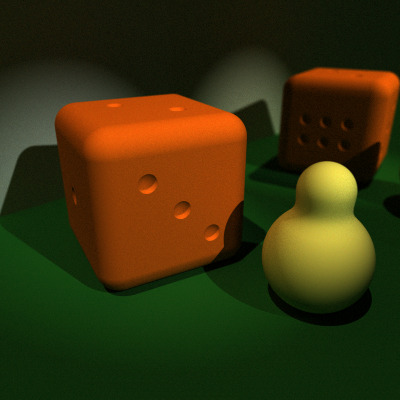
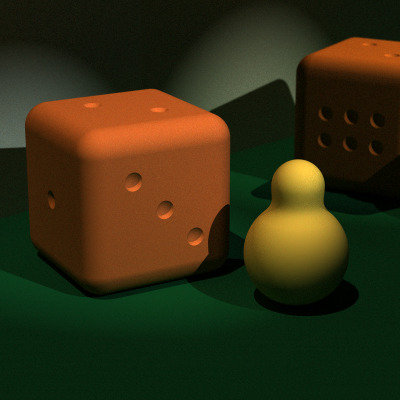
Update examples.

diff --git a/examples/spheres.hpp b/examples/spheres.hpp
@@ -36,6 +36,28 @@ Spectrum::sampled gold_k { {
   { 708.481, 3.6965 },
   { 826.561, 4.8406 } } };
 
+Spectrum::sampled silver_n { {
+  { 354.241, 1.4685 },
+  { 381.490, 1.2298 },
+  { 413.281, 0.6230 },
+  { 450.852, 0.1930 },
+  { 495.937, 0.1394 },
+  { 551.041, 0.1338 },
+  { 619.921, 0.1466 },
+  { 708.481, 0.1747 },
+  { 826.561, 0.2242 } } };
+
+Spectrum::sampled silver_k { {
+  { 354.241, 1.4048 },
+  { 381.490, 1.3234 },
+  { 413.281, 1.3282 },
+  { 450.852, 2.0570 },
+  { 495.937, 2.6785 },
+  { 551.041, 3.2689 },
+  { 619.921, 3.9130 },
+  { 708.481, 4.6754 },
+  { 826.561, 5.6373 } } };
+
 std::vector<Light::ptr> lights {
   new Light::spherical {
     new Spectrum::blackbody { 12.5, 5800 },
@@ -46,24 +68,26 @@ std::vector<Light::ptr> lights {
 
 std::vector<object> objects {
   { new Solid::plane { { 0., 1., 0. }, 1. },
-    new Material::lambertian { new Spectrum::from_palette { 0.4, 5, 9 } },
+    new Material::lambertian { new Spectrum::xyY { 0.32, 0.53, 0.6 } },
     NULL },
   { new Solid::sphere { { 0.2, 0., -1.2 }, 1. },
     new Material::reflective { &gold_n, &gold_k },
     NULL },
   { new Solid::sphere { { 2.3, -0.1, -1. }, 0.9 },
     new Material::thin_refractive { 1.3,
-      new Material::lambertian { new Spectrum::from_palette { 0.9, 2, 15 } }, },
+      new Material::lambertian { new Spectrum::xyY { 0.15, 0.25, 0.9 } }, },
     NULL },
-  { new Solid::difference {
-      new Solid::sphere { { 1.1, 0., 0.7 }, 1. },
-      new Solid::union_ {
-        new Solid::sphere { { 0.9, 0.5, -0.2 }, 0.2 },
-        new Solid::sphere { { 1.3, 0.5, -0.2 }, 0.2 } } },
-    new Material::lambertian { new Spectrum::from_palette { 0.9, 8, 10 } },
+  { new Solid::sphere { { 1.1, 0., 0.7 }, 1. },
+    new Material::reflective { &silver_n, &silver_k },
     NULL },
   { new Solid::sphere { { 1.3, -0.5, -2. }, 0.5 },
     new Material::refractive { 1.2 },
+    NULL },
+  { new Solid::sphere { { 0.1, -0.5, -2.5 }, 0.5 },
+    new Material::lambertian { new Spectrum::xyY { 0.4, 0.5, 0.9 } },
+    NULL },
+  { new Solid::sphere { { 2.4, -0.5, -2.5 }, 0.5 },
+    new Material::lambertian { new Spectrum::xyY { 0.64, 0.33, 0.9 } },
     NULL },
 };
 
@@ -72,12 +96,10 @@ std::vector<object> objects {
 namespace Camera {
 
 camera const *camera = new simple {
-  vec { 1., 2., -5. },
-  mat {
-    1., 0., 0.,
-    0., cos(0.45), -sin(0.45),
-    0., sin(0.45), cos(0.45)
-  } };
+  vec { 0.8, 5.8, -13. },
+  vec { 1.2, 0., -1. },
+  1.
+};
 
 }
 #endif

diff --git a/examples/sdf.hpp b/examples/sdf.hpp
@@ -49,7 +49,7 @@ std::vector<Light::ptr> lights {
 
 std::vector<object> objects {
   { new Solid::plane { { 0., 1., 0. }, 1. },
-    new Material::lambertian { new Spectrum::from_palette { 0.4, 5, 9 } },
+    new Material::lambertian { new Spectrum::xyY { 0.25, 0.55, 0.4 } },
     NULL },
   { new Solid::plane { Vector::normalize ({ 1., 0., -1. }), 2.5 },
     new Material::lambertian { new Spectrum::uniform { 0.9 } },
@@ -61,7 +61,7 @@ std::vector<object> objects {
       new SDF::smooth_union { 0.25,
         new SDF::sphere { { 2., -0.4, -1.2 }, 0.6 },
         new SDF::sphere { { 2., 0.4, -1.2 }, 0.3 } } },
-    new Material::lambertian { new Spectrum::from_palette { 0.9, 7, 11 } },
+    new Material::lambertian { new Spectrum::xyY { 0.43, 0.48, 0.9 } },
     NULL },
   { new Solid::sdf {
       new SDF::difference {
@@ -80,7 +80,7 @@ std::vector<object> objects {
           new SDF::sphere { { -0.4, 0.2, 1.1 }, 0.15 },
           new SDF::sphere { { 0., 0.2, 1.1 }, 0.15 },
           new SDF::sphere { { 0.4, 0.2, 1.1 }, 0.15 }, } }, },
-    new Material::lambertian { new Spectrum::from_palette { 0.9, 10, 11 } },
+    new Material::lambertian { new Spectrum::xyY { 0.55, 0.4, 0.9 } },
     new Transform::iso { { 0., 0., 0. }, 1., { 0., 1., 0. }, -1.05 } },
 };
 
@@ -89,8 +89,9 @@ std::vector<object> objects {
 namespace Camera {
 
 camera const *camera = new simple_lens {
-  vec { 0.8, 2., -5. },
-  vec { 0.7, 0.1, -0.8 },
+  vec { 1., 4.5, -14. },
+  vec { 0.9, 0.1, -0.8 },
+  1.,
   0.05 };
 
 }

diff --git a/examples/bunny.hpp b/examples/bunny.hpp
@@ -14,17 +14,21 @@ bool const regularize = false;
 namespace Scene {
 
 std::vector<Light::ptr> lights {
+  /*
   new Light::multidirectional {
     new Spectrum::blackbody { 2.5, 5800 },
     Vector::normalize({ 1., 2., -1. }), 4.65e-3 },
+  */
+  new Light::environment { new Image::pfm("objs/envmap.pfm"), 0.8, 0.3 }
 };
 
 std::vector<object> objects {
   { new Solid::plane { { 0., 1., 0. }, 1. },
-    new Material::lambertian { new Spectrum::from_palette { 0.9, 7, 13 } },
+    new Material::lambertian { new Spectrum::xyY { 0.38, 0.42, 0.8 } },
     NULL },
   { new Solid::mesh { "objs/stanford-bunny.obj" },
-      new Material::lambertian { new Spectrum::uniform { 0.9 } },
+    new Material::thin_refractive { 1.3,
+      new Material::lambertian { new Spectrum::uniform { 0.9 } }, },
     new Transform::iso { { 1.5, -1. - 19. * 0.032987, -1.2 }, 19., { 0., 1., 0. }, 1. } },
 };
 
@@ -33,12 +37,10 @@ std::vector<object> objects {
 namespace Camera {
 
 camera const *camera = new simple {
-  vec { 0.9, 2., -5. },
-  mat {
-    1., 0., 0.,
-    0., cos(0.45), -sin(0.45),
-    0., sin(0.45), cos(0.45)
-  } };
+  vec { 0.9, 5.3, -10. },
+  vec { 0.9, 0.8, -2.5 },
+  1.
+};
 
 }
 #endif

diff --git a/examples/spot.hpp b/examples/spot.hpp
@@ -29,7 +29,7 @@ std::vector<Light::ptr> lights {
 
 std::vector<object> objects {
   { new Solid::plane { { 0., 1., 0. }, 1. },
-    new Material::lambertian { new Spectrum::from_palette { 0.4, 5, 9 } },
+    new Material::lambertian { new Spectrum::xyY { 0.25, 0.55, 0.4 } },
     NULL },
   { new Solid::mesh { "objs/spot.obj" },
       new Material::lambertian {
@@ -42,12 +42,10 @@ std::vector<object> objects {
 namespace Camera {
 
 camera const *camera = new simple {
-  vec { 0., 2., -5. },
-  mat {
-    1., 0., 0.,
-    0., cos(0.4), -sin(0.4),
-    0., sin(0.4), cos(0.4)
-  } };
+  vec { 0., 1.8, -11. },
+  vec { 0., 0.4, 0. },
+  1.
+};
 
 }
 #endif

diff --git a/README.md b/README.md
@@ -16,13 +16,13 @@ from mathematics to implementation details.
 In particular, without this book, I would never have fully understood
 the following points:
 
-- Handling specular rays does not have to be a hack. They neatly fit
-  into a Monte-Carlo framework, despite their Dirac distributions, as
-  long as importance sampling is used.
-
 - Sampling both the material bsdf and the light sources along a path
   is a mathematically-grounded way to perform illumination, thanks to
   multiple importance sampling.
+
+- Handling specular rays does not have to be a hack. They neatly fit
+  into a Monte-Carlo framework, despite their Dirac distributions, as
+  long as importance sampling is used.
 
 - Sampling the whole visible spectrum rather than just three color
   channels does not make things much harder or slower. Moreover, it
@@ -37,27 +37,32 @@ was [Inigo Quilez's
 website](https://iquilezles.org/articles/distfunctions/), which is a
 treasure trove of ideas.
 
-Note: A slightly modern C++ compiler is needed, as the code relies on
-several C++20 features.
-
-To generate a `foo.ppm` file from a scene description (e.g.,
-`examples/spheres.hpp`), execute the following command.
+Scenes are just C++ code. To generate a `foo.ppm` file from a scene
+description (e.g., `examples/spheres.hpp`), execute the following
+command.
 
 ```shell
 make -f Remakefile examples/spheres && examples/spheres
 ```
 
-Supported features:
+Note: A slightly modern C++ compiler is needed, as the code relies on
+several C++20 features.
+
+## Supported features
 
 - Pathtracing by sampling both lights and materials.
 
 - Raymarching using signed distance functions.
 
-- Triangulated meshes using the `.obj` format with textures using the `.ppm` format.
+- Triangulated meshes using the `.obj` format with textures and normals.
+
+- Environment maps.
 
 - Spectral distributions.
 
-Caveats:
+- Textures and output as `.ppm` and `.pfm` files.
+
+## Caveats
 
 - Signed distance functions are only meaningful outside primitives, so
   they should not be used with a transparent material.
@@ -65,8 +70,6 @@ Caveats:
 - There is neither path regularization nor bidirectional illumination,
   so diffuse surfaces indirectly illuminated by reflective or
   refractive materials will look very noisy.
-
-- Texture colors are poorly approximated by spectral distributions.
 
 - Too many caveats to list exhaustively.
 
